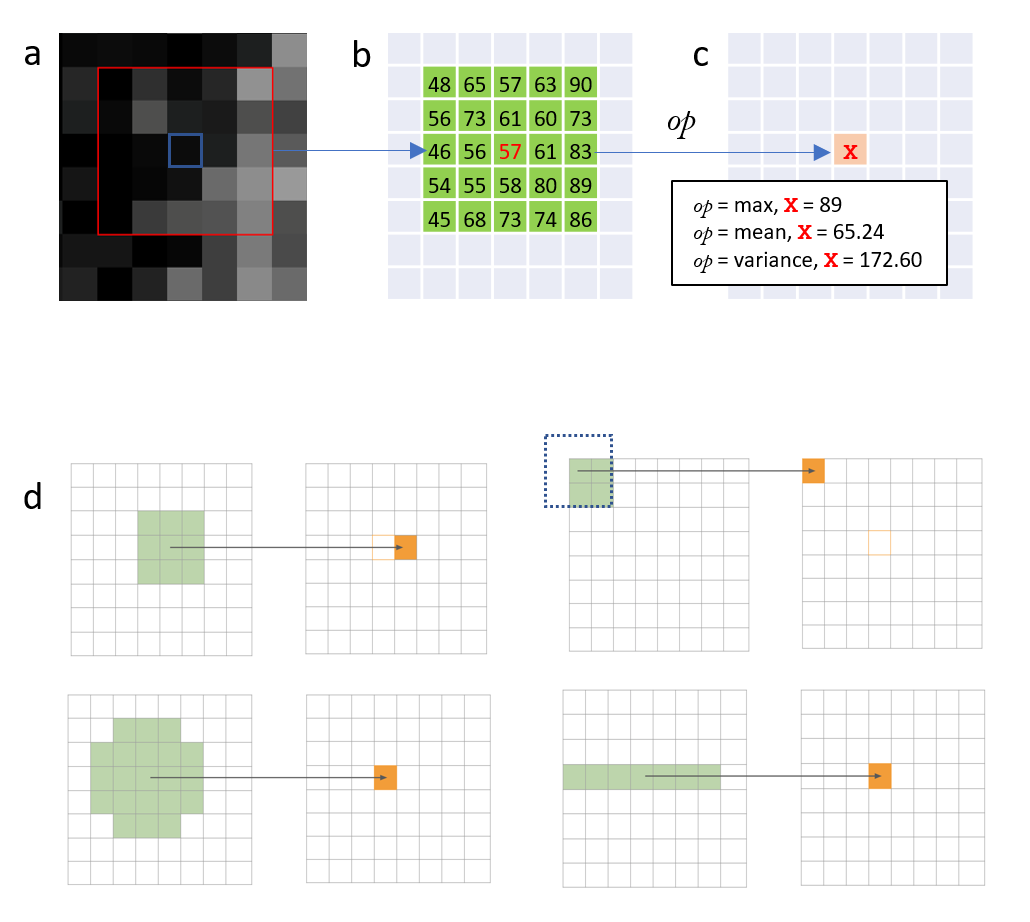
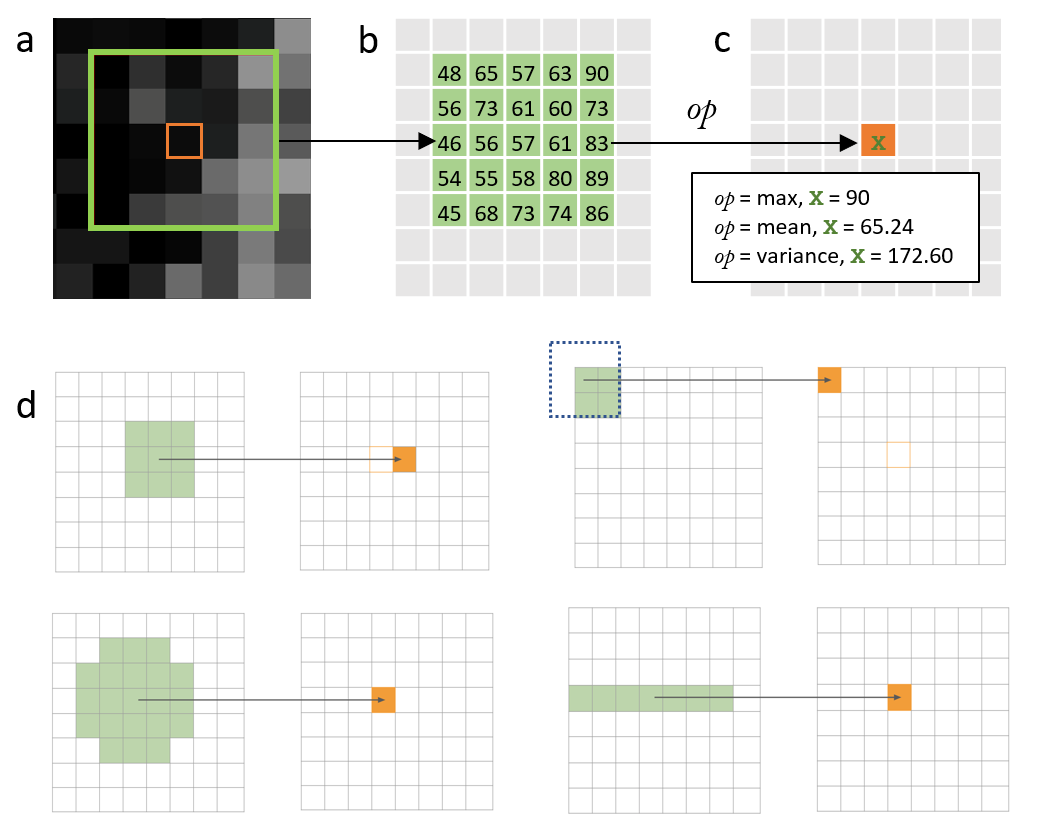
added modified figure and completed exercises answers

diff --git a/_includes/filter_neighbourhood/exercises/filter_mean_variance_imagejgui.md b/_includes/filter_neighbourhood/exercises/filter_mean_variance_imagejgui.md
@@ -1,0 +1,52 @@
+## Exercise mean filter
+
+- The expected result from manual thresholding should be [xy_8bit_binary__noisy_two_nuclei_close.tif](https://github.com/NEUBIAS/training-resources/raw/master/image_data/xy_8bit_binary__nuclei_very_noisy_close.tif)
+- Is applying manual thresholding operation possible directly on raw image?
+- Apply mean filters with radii: 1, 2, 3, 5
+- For each radius find the lowest threshold that yields exactly four connected components (the nuclei).
+- For radius 5, what happens to the size of the segmented nuclei?
+
+> ## Solution
+> No applying manual thresholding on raw images gives a large number of undesired connected components
+>
+> - [ Image › Duplicate... ]
+>   - title = mean_1
+> - [ Process › Filters › Mean... ]
+>   - radius = 1
+> - Repeat the steps above with the other radii
+> - Radius 1: Lower Threshold Level = 38
+> - Radius 2: Lower Threshold Level = 43
+> - Radius 3: Lower Threshold Level = 48
+> - Radius 5: Lower Threshold Level = 57
+>
+> For radius 5 the segmented nuclei are smaller.
+{: .solution}
+
+## Exercise variance filter
+
+- Apply a variance filter that segments the cell regions from the background
+  - Hints:
+    - Convert image to float, because the filter may yield high values [ Image > Type > 32-bit ]
+    - [ Process > Filter > Variance... ]
+- What is the minimal radius to yields a good segmentation?
+
+> ## Solution
+>
+> - [ Image › Rename...]
+>   - Title = input
+> - [ Image › Duplicate... ]
+>   - Title = variance_5
+> - [ Image > Type > 32-bit ] (since in variance calculation, pixel values can exceed 255 which is current bit depth of input image)
+> - [ Process › Filters › Variance... ]
+>   - radius = 5
+> - [ Image › Adjust › Threshold... ]  
+>   - ([x] Dark Background)
+>   - Lower threshold level = 80 (other values can also be chosen)
+>   - Higher threshold level = 1e30
+>   -  Press `Set`
+>   - Press `Apply`
+>      - Press `Convert to Mask`
+> - [ Image › Lookup Tables › Invert LUT ] (Optional: if highest values are darker and lowest brighter)
+>
+> 5, lesser radii would tend to produce more holes in the segmented region
+{: .solution}

diff --git a/_modules/filter_neighbourhood.md b/_modules/filter_neighbourhood.md
@@ -33,7 +33,7 @@ activity_preface: |
     - Find a filter that can help you visualize your SE
 
 activities:
-- ["ImageJ Macro & GUI", "filter_neighbourhood/activities/filter_mean_imagejmacrogui.md", "markdown"]
+- ["ImageJ GUI", "filter_neighbourhood/activities/filter_mean_imagejgui.md", "markdown"]
 
 exercise_preface: |
   - Mean filter for noisy fluorescence microscopy
@@ -44,7 +44,7 @@ exercise_preface: |
     - Apply a variance (or standard deviation) filter to segment the regions contain the sample from the background
 
 exercises:
-- ["ImageJ Macro & GUI", "filter_neighbourhood/exercises/filter_mean_variance_imagejguimacro.md", "markdown"]
+- ["ImageJ GUI", "filter_neighbourhood/exercises/filter_mean_variance_imagejgui.md", "markdown"]
 
 assessment: >
   #### Fill in the blanks
@@ -69,10 +69,10 @@ external_links:
 
 ---
 
-### Neighbourhood filters
+### Neighborhood filters
 
 Neighborhood filters comprise two ingredients: a definition of the pixel neighborhood (size and shape) and a mathematical recipe what to compute on this neighborhood.
-The result of this computation will be used to replace the value of the central pixel in the neighborhood. This procedure can be applied to several (all) pixels of an image to obtain a filtered image. The animation shows a square neighborhoods (3x3) applied to the inner pixels of the image.
+The result of this computation will be used to replace the value of the central pixel in the neighborhood. This procedure can be applied to several (all) pixels of an image to obtain a filtered image. The animation shows a square neighborhood (3x3) applied to the inner pixels of the image.
 
 There are tons of different neighborhood filters, and you can also invent one!
 

diff --git a/_includes/filter_neighbourhood/activities/filter_mean_imagejgui.md b/_includes/filter_neighbourhood/activities/filter_mean_imagejgui.md
@@ -1,0 +1,28 @@
+- Mean filter
+  - Open [xy_8bit__nuclei_very_noisy.tif](https://github.com/NEUBIAS/training-resources/raw/master/image_data/xy_8bit__nuclei_very_noisy.tif)
+  - It is helpful to first duplicate the image: **[Image > Duplicate...]** or **[Ctrl-Shift-D]**
+    - title = mean_1
+  - Apply a mean filter to the image such that you can binarize the image into exactly three disjoint foreground regions (the three nuclei). The resulting mask should look like [xy_8bit_binary__nuclei_very_noisy.tif](https://github.com/NEUBIAS/training-resources/raw/master/image_data/xy_8bit_binary__nuclei_very_noisy.tif)
+    - (**[Process > Filters > Mean...]**)
+      - Radius = 1 pixels
+    - **[Image > Adjust > Threshold...]**
+      - **[X]** Dark Background
+      - Lower threshold level = 31
+      - Higher threshold level = 255
+      - Press `Set`
+      - Press `Apply`
+      - **[Image > Lookup Tables > Invert LUT]**
+    - Repeat the procedure with radii = 2, 5, 7
+
+  - What is the smallest size for the mean filter that does the job?
+    - Radius = 2 and Lower threshold level = 30 (other values can also be chosen) can remove the noise and find the appropriate nuclei size after manual thresholding
+  - What happens if the filter size increases?
+    - The boundaries of segmented nuclei are smoother
+
+
+- Structuring element inspection
+  - Open [xy_8bit_binary__one_foreground_pixel.tif](https://github.com/NEUBIAS/training-resources/raw/master/image_data/xy_8bit_binary__one_foreground_pixel.tif)
+  - **[Image > Duplicate...]** or **[Ctrl-Shift-D]**
+    - title = max_2
+  - (**[Process > Filters > Maximum...]**)
+    - Radius = 2 pixels
